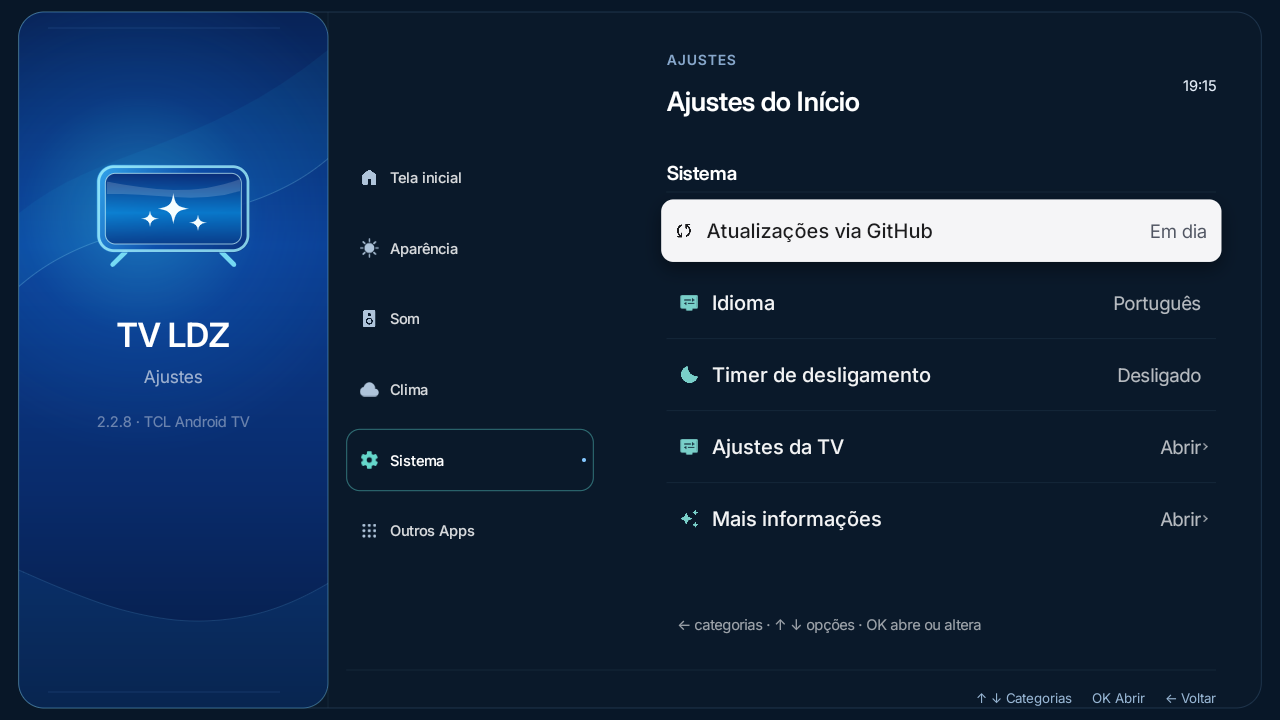
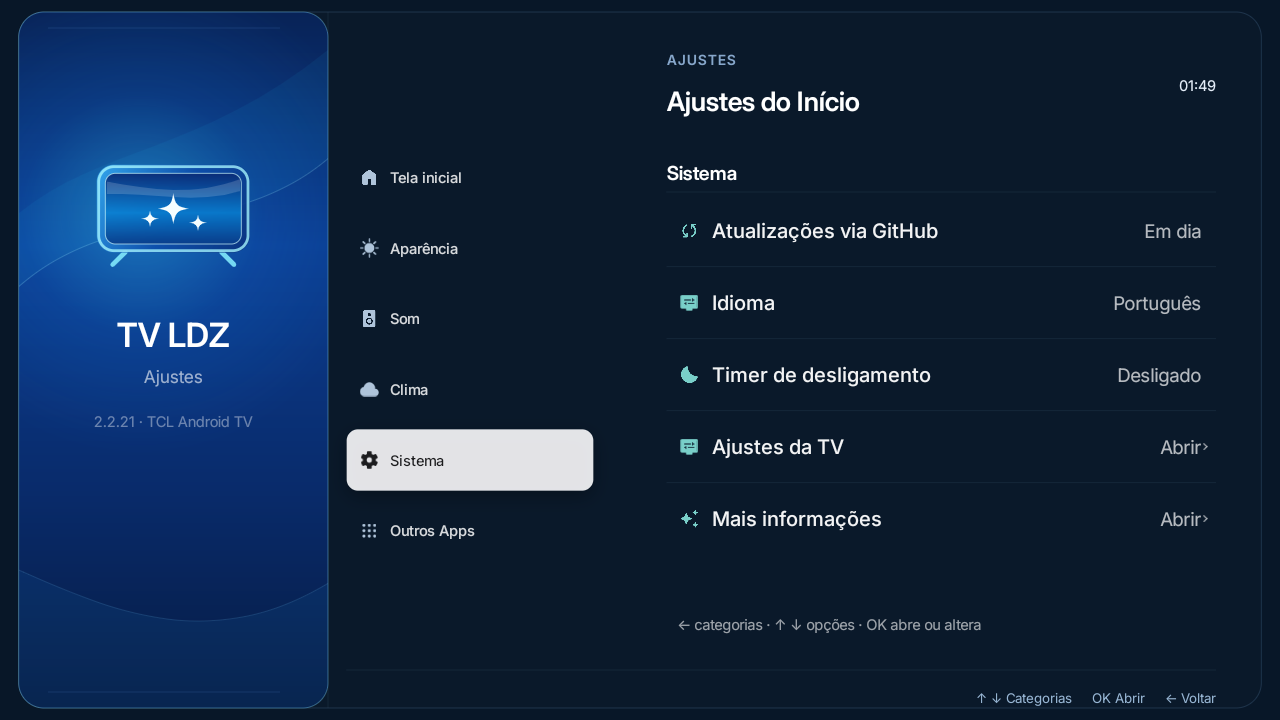
Atualiza capturas reais da TV 2.2.21 e acabamento da demo

diff --git a/demo.html b/demo.html
@@ -26,7 +26,7 @@
 .companion.focused small{color:#42556b}
 .tile-symbol{display:grid;place-items:center;height:100%}
 .tile-symbol svg{width:3.25cqw;height:3.25cqw}
-</style></head>
+.brand-art{margin-bottom:3cqw}.saver .clock-block{text-shadow:0 0 5px #000,0 2px 12px #000,0 0 22px #000}.saver .clock-block:before{display:none}</style></head>
 <body>
 <div class="portrait" id="portrait"><span style="font-size:64px">↻</span><b>Vire o celular para deitado</b><span>A experiência do TV LDZ foi feita para uma tela wide 16:9.<br>Use os botões abaixo da TV para navegar.</span><button id="continuePortrait">Continuar na vertical</button></div>
 <main class="screen" id="screen" aria-label="Demonstração TV LDZ"></main>

diff --git a/README.md b/README.md
@@ -16,7 +16,7 @@ O código está em [`demo.html`](demo.html) e reutiliza as imagens e a fonte de 
 
 ## Capturas de tela
 
-Capturas reais da versão **2.2.8** em uma TV TCL com Android TV. Para explorar os menus mais recentes, abra a demonstração acima.
+Capturas reais da versão **2.2.21**, feitas em 28/11/2026 em uma TV TCL com Android TV. Para explorar os menus mais recentes, abra a demonstração acima.
 
 <table>
   <tr>
